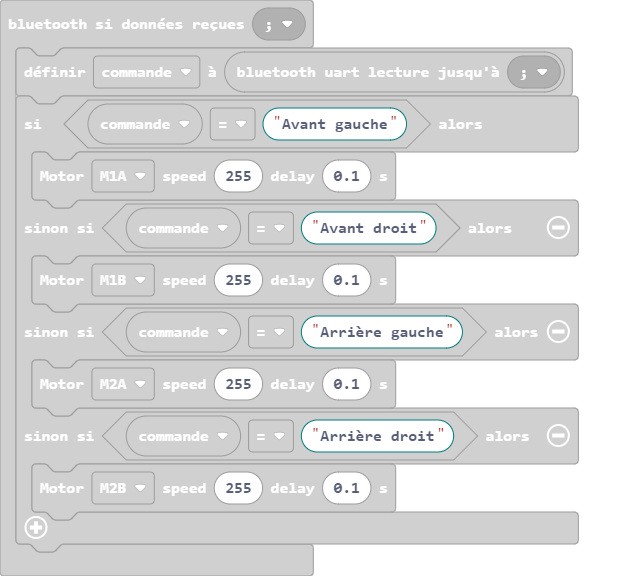
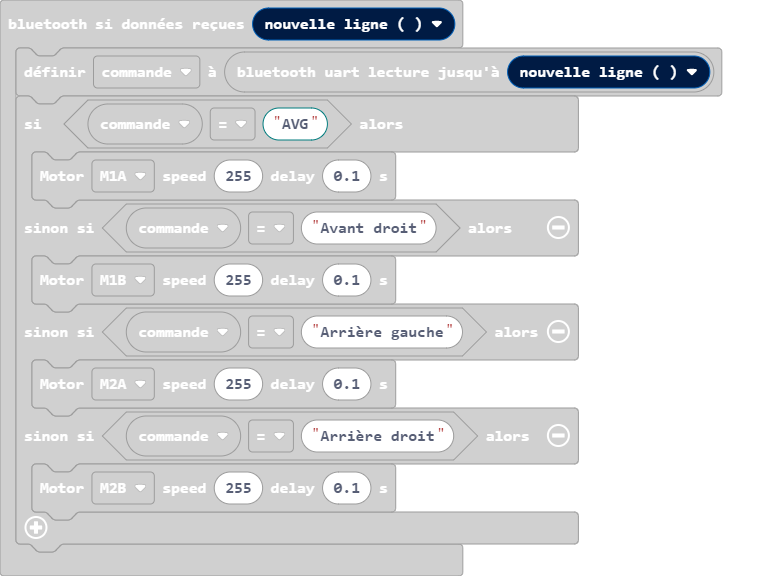
Mise à jour main.blocks, main.ts

diff --git a/main.ts b/main.ts
@@ -6,9 +6,9 @@ bluetooth.onBluetoothDisconnected(function () {
     basic.showIcon(IconNames.No)
     basic.pause(1000)
 })
-bluetooth.onUartDataReceived(serial.delimiters(Delimiters.SemiColon), function () {
-    commande = bluetooth.uartReadUntil(serial.delimiters(Delimiters.SemiColon))
-    if (commande == "Avant gauche") {
+bluetooth.onUartDataReceived(serial.delimiters(Delimiters.NewLine), function () {
+    commande = bluetooth.uartReadUntil(serial.delimiters(Delimiters.NewLine))
+    if (commande == "AVG") {
         robotbit.MotorRunDelay(robotbit.Motors.M1A, 255, 0.1)
     } else if (commande == "Avant droit") {
         robotbit.MotorRunDelay(robotbit.Motors.M1B, 255, 0.1)
